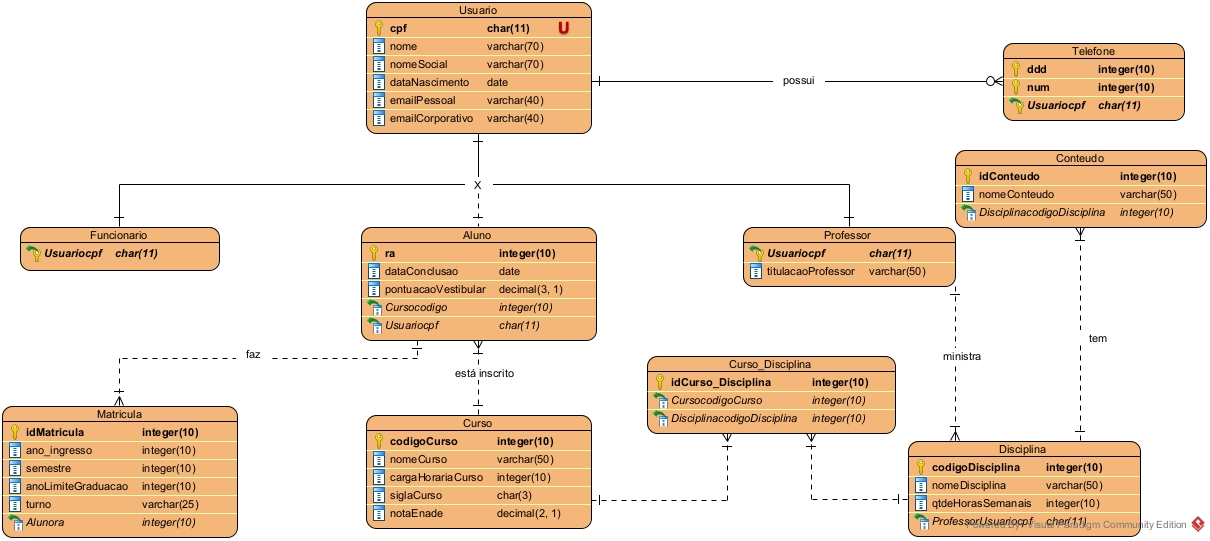
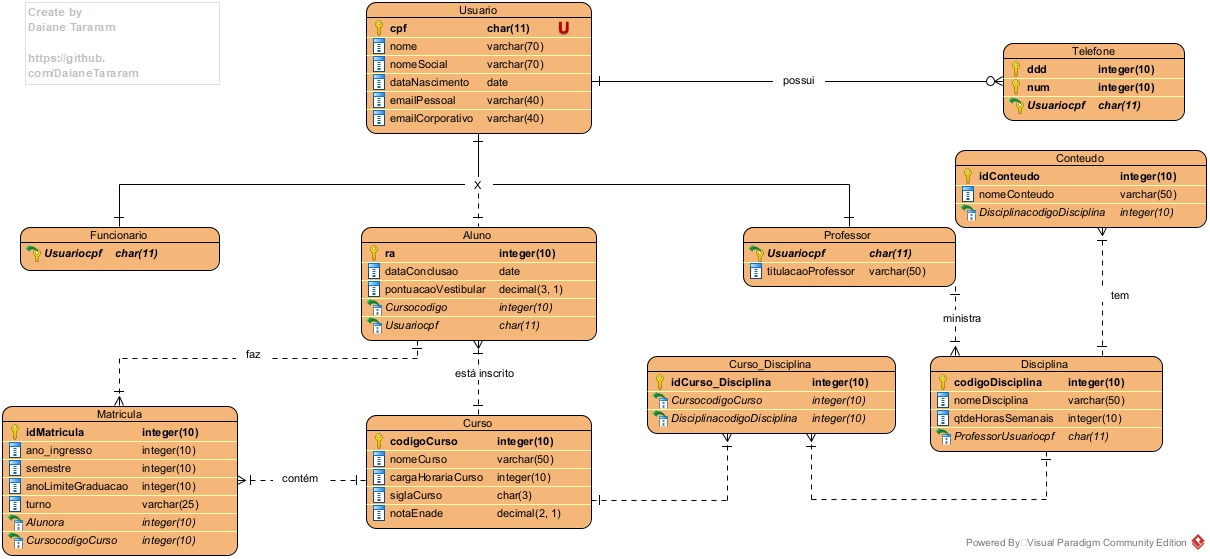
inserindo atualizacao da DER e novo Diagrama de Classes

diff --git a/src/main/java/model/Aluno.java b/src/main/java/model/Aluno.java
@@ -1,17 +1,13 @@
 package model;
 
 import java.time.LocalDate;
-import java.util.ArrayList;
-import java.util.List;
-
 import lombok.Data;
+
 
 @Data
 public class Aluno extends Usuario{
 	private int ra;
 	private LocalDate dataConclusao;
-	private float pontuacaoVestibular;
-	private String turno;
-	private List<Telefone> telefones = new ArrayList<>();
-	
+	private float pontuacaoVestibular;	
+	private Curso curso;
 }

diff --git a/src/main/java/model/Usuario.java b/src/main/java/model/Usuario.java
@@ -1,9 +1,17 @@
 package model;
 
+import java.time.LocalDate;
+import java.util.ArrayList;
+import java.util.List;
+
+import lombok.Data;
+@Data
 public class Usuario {
 	private String cpf;
 	private String nome;
 	private String nomeSocial;
+	private LocalDate dataNascimento;
 	private String emailPessoal;
 	private String emailCorporativo;
+	private List<Telefone> telefones = new ArrayList<>();
 }
